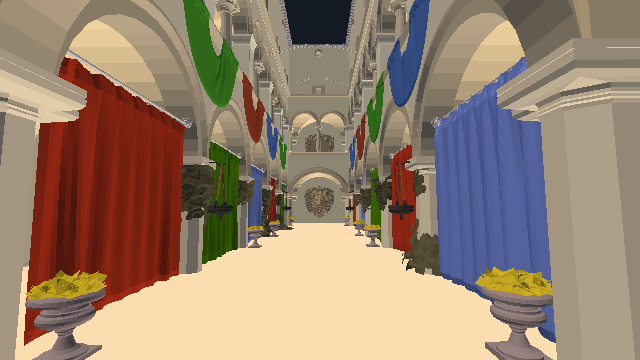
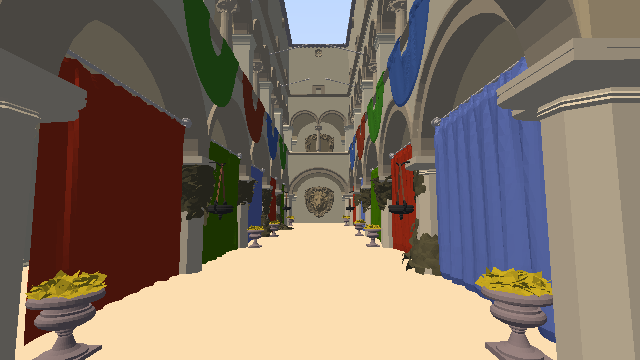
4.4x faster Sponza: per-cell 16-wide SoA triangle blocks; raster mode matches RT shading
Profiled traversal: 638 tri tests/ray dominated cost, all scalar. Cells now
store triangles in padded SoA blocks tested by one branchless SIMD
Moller-Trumbore iteration: 1.0 -> 4.4 Mrays/s native at 1080p (with
shadows), 0.5 -> 1.7 in WASM. Makefile header deps fixed (mesh.h edits
did not rebuild). Raster mode now uses identical shading + sky as the
raytraced mode; the only remaining difference is shadow rays.

diff --git a/web/webgpu.js b/web/webgpu.js
@@ -279,6 +279,13 @@ export class GpuMesh {
       fragment: { module, entryPoint: 'fs_blit', targets: [{ format: engine.format }] },
       primitive: { topology: 'triangle-list' },
     });
+    e.skyPipe = dev.createRenderPipeline({
+      layout: 'auto',
+      vertex: { module, entryPoint: 'vs_blit' },
+      fragment: { module, entryPoint: 'fs_sky', targets: [{ format: engine.format }] },
+      primitive: { topology: 'triangle-list' },
+      depthStencil: { format: 'depth24plus', depthWriteEnabled: false, depthCompare: 'always' },
+    });
     e.ubuf = dev.createBuffer({ size: 256, usage: GPUBufferUsage.UNIFORM | GPUBufferUsage.COPY_DST });
     e.sinkBuf = dev.createBuffer({ size: 64 * 4, usage: GPUBufferUsage.STORAGE | GPUBufferUsage.COPY_DST });
     const mkbuf = (arr) => {
@@ -311,6 +318,10 @@ export class GpuMesh {
         { binding: 1, resource: { buffer: e.vbuf } },
         { binding: 2, resource: { buffer: e.tbuf } },
       ],
+    });
+    e.skyBG = dev.createBindGroup({
+      layout: e.skyPipe.getBindGroupLayout(0),
+      entries: [{ binding: 0, resource: { buffer: e.ubuf } }],
     });
     return e;
   }
@@ -435,6 +446,9 @@ export class GpuMesh {
         depthStoreOp: 'discard',
       },
     });
+    rp.setPipeline(this.skyPipe);
+    rp.setBindGroup(0, this.skyBG);
+    rp.draw(3);
     rp.setPipeline(this.rasterPipe);
     rp.setBindGroup(0, this.rasterBG);
     rp.draw(this.ntris * 3);

diff --git a/src/mesh.h b/src/mesh.h
@@ -32,7 +32,15 @@ struct Mesh {
   int gx = 0, gy = 0, gz = 0;
   Vec3 inv_cell, cell;
   std::vector<uint32_t> cell_start;  // gx*gy*gz + 1 CSR offsets
-  std::vector<uint32_t> items;       // triangle ids
+  std::vector<uint32_t> items;       // triangle ids (also exported to WebGPU)
+  // Each cell's triangles padded to 16-wide SoA blocks (9 segments of 16
+  // floats: p0x p0y p0z e1x e1y e1z e2x e2y e2z) so one AVX-512 iteration
+  // tests 16 triangles. Padding slots have e1=e2=0 => det=0 => never hit.
+  static constexpr int BLK = 16;
+  static constexpr int BLK_FLOATS = 9 * BLK;
+  std::vector<float> blk;
+  std::vector<uint32_t> blk_id;        // tri id per block slot
+  std::vector<uint32_t> cell_blk;      // per cell: first block, CSR (+1)
 
   bool valid() const { return ntris > 0; }
 };
@@ -88,6 +96,35 @@ inline void mesh_build_grid(Mesh& m, float density = 5.0f) {
       for (int y = lo[1]; y <= hi[1]; y++)
         for (int x = lo[0]; x <= hi[0]; x++)
           m.items[cursor[(size_t(z) * m.gy + y) * m.gx + x]++] = t;
+  }
+  // Build the padded SoA test blocks per cell.
+  m.cell_blk.assign(ncells + 1, 0);
+  for (size_t c = 0; c < ncells; c++) {
+    uint32_t cnt = m.cell_start[c + 1] - m.cell_start[c];
+    m.cell_blk[c + 1] = m.cell_blk[c] + (cnt + Mesh::BLK - 1) / Mesh::BLK;
+  }
+  size_t nblocks = m.cell_blk[ncells];
+  m.blk.assign(nblocks * Mesh::BLK_FLOATS, 0.0f);
+  m.blk_id.assign(nblocks * Mesh::BLK, 0);
+  for (size_t c = 0; c < ncells; c++) {
+    uint32_t s = m.cell_start[c], e = m.cell_start[c + 1];
+    for (uint32_t k = s; k < e; k++) {
+      uint32_t t = m.items[k];
+      size_t slot = k - s;
+      size_t b = m.cell_blk[c] + slot / Mesh::BLK;
+      int lane = int(slot % Mesh::BLK);
+      float* q = &m.blk[b * Mesh::BLK_FLOATS];
+      q[0 * Mesh::BLK + lane] = m.p0x[t];
+      q[1 * Mesh::BLK + lane] = m.p0y[t];
+      q[2 * Mesh::BLK + lane] = m.p0z[t];
+      q[3 * Mesh::BLK + lane] = m.e1x[t];
+      q[4 * Mesh::BLK + lane] = m.e1y[t];
+      q[5 * Mesh::BLK + lane] = m.e1z[t];
+      q[6 * Mesh::BLK + lane] = m.e2x[t];
+      q[7 * Mesh::BLK + lane] = m.e2y[t];
+      q[8 * Mesh::BLK + lane] = m.e2z[t];
+      m.blk_id[b * Mesh::BLK + lane] = t;
+    }
   }
 }
 
@@ -153,25 +190,38 @@ inline bool mesh_load(Mesh& m, const uint8_t* data, size_t len) {
   return true;
 }
 
-// Moller-Trumbore, no backface culling.
-inline bool tri_hit(const Mesh& m, uint32_t t, Vec3 ro, Vec3 rd, float tmin, float tmax,
-                    float& tout) {
-  Vec3 e1{m.e1x[t], m.e1y[t], m.e1z[t]};
-  Vec3 e2{m.e2x[t], m.e2y[t], m.e2z[t]};
-  Vec3 pv = cross(rd, e2);
-  float det = dot(e1, pv);
-  if (det > -1e-9f && det < 1e-9f) return false;
-  float inv = 1.0f / det;
-  Vec3 tv = ro - Vec3{m.p0x[t], m.p0y[t], m.p0z[t]};
-  float u = dot(tv, pv) * inv;
-  if (u < 0.0f || u > 1.0f) return false;
-  Vec3 qv = cross(tv, e1);
-  float v = dot(rd, qv) * inv;
-  if (v < 0.0f || u + v > 1.0f) return false;
-  float tt = dot(e2, qv) * inv;
-  if (tt <= tmin || tt >= tmax) return false;
-  tout = tt;
-  return true;
+// Moller-Trumbore over one 16-triangle SoA block, branchless across lanes.
+// Conditions are written positively so NaN lanes (degenerate padding) fail.
+inline void tri_block_hit(const float* __restrict b, const uint32_t* __restrict ids, Vec3 ro,
+                          Vec3 rd, float tmin, float& best, int& bestid) {
+  constexpr int K = Mesh::BLK;
+  float ts[K];
+#pragma omp simd
+  for (int i = 0; i < K; i++) {
+    float e1x = b[3 * K + i], e1y = b[4 * K + i], e1z = b[5 * K + i];
+    float e2x = b[6 * K + i], e2y = b[7 * K + i], e2z = b[8 * K + i];
+    float pvx = rd.y * e2z - rd.z * e2y;
+    float pvy = rd.z * e2x - rd.x * e2z;
+    float pvz = rd.x * e2y - rd.y * e2x;
+    float det = e1x * pvx + e1y * pvy + e1z * pvz;
+    float inv = 1.0f / det;
+    float tvx = ro.x - b[0 * K + i], tvy = ro.y - b[1 * K + i], tvz = ro.z - b[2 * K + i];
+    float u = (tvx * pvx + tvy * pvy + tvz * pvz) * inv;
+    float qvx = tvy * e1z - tvz * e1y;
+    float qvy = tvz * e1x - tvx * e1z;
+    float qvz = tvx * e1y - tvy * e1x;
+    float v = (rd.x * qvx + rd.y * qvy + rd.z * qvz) * inv;
+    float tt = (e2x * qvx + e2y * qvy + e2z * qvz) * inv;
+    float ad = det < 0.0f ? -det : det;
+    bool ok = (ad > 1e-12f) & (u >= 0.0f) & (v >= 0.0f) & (u + v <= 1.0f) & (tt > tmin);
+    ts[i] = ok ? tt : 1e30f;
+  }
+  for (int i = 0; i < K; i++) {
+    if (ts[i] < best) {
+      best = ts[i];
+      bestid = int(ids[i]);
+    }
+  }
 }
 
 // Grid DDA nearest-hit. anyhit: return on the first accepted intersection.
@@ -227,18 +277,14 @@ inline bool mesh_intersect(const Mesh& m, Vec3 ro, Vec3 rd, float tmin, float tm
   for (;;) {
     float cell_exit = tmx < tmy ? (tmx < tmz ? tmx : tmz) : (tmy < tmz ? tmy : tmz);
     size_t ci = (size_t(cz) * m.gy + cy) * m.gx + cx;
-    uint32_t s = m.cell_start[ci], e = m.cell_start[ci + 1];
-    for (uint32_t k = s; k < e; k++) {
-      uint32_t t = m.items[k];
-      float tt;
-      if (tri_hit(m, t, ro, rd, tmin, best, tt)) {
-        best = tt;
-        besttri = int(t);
-        if (anyhit) {
-          out.t = best;
-          out.tri = besttri;
-          return true;
-        }
+    uint32_t bs = m.cell_blk[ci], be = m.cell_blk[ci + 1];
+    for (uint32_t b = bs; b < be; b++) {
+      tri_block_hit(&m.blk[size_t(b) * Mesh::BLK_FLOATS], &m.blk_id[size_t(b) * Mesh::BLK],
+                    ro, rd, tmin, best, besttri);
+      if (anyhit && besttri >= 0) {
+        out.t = best;
+        out.tri = besttri;
+        return true;
       }
     }
     if (besttri >= 0 && best <= cell_exit + 1e-4f) break;

diff --git a/README.md b/README.md
@@ -30,7 +30,7 @@ acceleration structure of any kind — at 11.4 fps / 23.6 Mrays/s on a 4-core
 | raytraced (WGSL compute, grid DDA) | rasterized (same mesh, classic pipeline) |
 |---|---|
 | ![Sponza raytraced](docs/img/sponza_rt.png) | ![Sponza rasterized](docs/img/sponza_raster.png) |
-| sun + shadows + sky through the roof | no shadows, no sky — the 60-year-old cheat |
+| Identical camera and shading — primary visibility matches pixel-for-pixel. The one thing the rasterizer can't do is the shadow ray, so flipping modes makes shadows appear and disappear. |
 
 ## Measured numbers (this dev box: 4-core Intel Xeon 2.8 GHz, AVX-512)
 
@@ -43,18 +43,19 @@ Native, primary visibility rays at 1920×1080, brute force unless noted
 | s8 | 8 spheres | **819** | 6553 | 395 |
 | s64 | 64 spheres | **161** | 10278 | 77 |
 | s256 | 256 spheres | 43 | 11113 | 21 |
-| rtiow | 479 spheres | 24 | 11323 | 11.4 |
-| rtiow (full shading, shadows + reflections) | 479 spheres | 20 | 9717 | 4.8 |
-| sponza | 262,267 triangles (grid DDA) | 0.9 | — | 0.5 |
+| rtiow | 479 spheres | 24 | 11602 | 11.7 |
+| rtiow (full shading, shadows + reflections) | 479 spheres | 20 | 9608 | 4.7 |
+| sponza | 262,267 triangles (grid DDA) | 4.1 | — | 2.0 |
+| sponza (full shading + shadows) | 262,267 triangles | 4.4 | — | 1.3 |
 
 Same core compiled to WebAssembly, running in V8 (4 threads, SIMD128):
 
 | scene | Mrays/s in the browser engine |
 |-------|------------------------------|
-| 1 sphere | **640** |
-| 64 spheres | 43 |
-| rtiow (479) | 6.0 |
-| sponza (262k tris) | 0.5 |
+| 1 sphere | **713** |
+| 64 spheres | 42 |
+| rtiow (479) | 5.7 |
+| sponza (262k tris) | 1.7 |
 
 On the reference machine for this project — a **Ryzen 7 7800X3D** (8 Zen 4
 cores, full AVX-512, ~5 GHz) — scale the native numbers by roughly 2.5–3.5×
@@ -70,7 +71,7 @@ Published figures for real ray-tracing hardware, against the numbers above
 
 | hardware ray tracer | year | their figure | ours (4-core VM, software, no BVH) |
 |---|---|---|---|
-| [Saarland RPU](https://dl.acm.org/doi/10.1145/1073204.1073211) (the original ray-tracing chip, FPGA) | 2005 | ≈4.1 Mrays/s measured, primary rays | 2226 Mrays/s (1 sphere) → **540× faster**; even the 479-sphere scene is 5.8× faster |
+| [Saarland RPU](https://dl.acm.org/doi/10.1145/1073204.1073211) (the original ray-tracing chip, FPGA) | 2005 | ≈4.1 Mrays/s measured, primary rays (scenes up to ~53k tris) | 2255 Mrays/s (1 sphere) → **540× faster**; the 479-sphere scene is 5.9× faster; even 262k-triangle Sponza matches it at 4.1 Mrays/s on a 5× bigger scene |
 | [Caustic R2100](https://www.design-reuse.com/news/31295/imgtec-r2500-r2100.html) PCIe RT accelerator ($795) | 2013 | 50 M incoherent rays/s claimed | 161 Mrays/s on 64 spheres → **3.2× faster** |
 | [Caustic R2500](https://www.design-reuse.com/news/31295/imgtec-r2500-r2100.html) PCIe RT accelerator ($1495) | 2013 | 100 M incoherent rays/s claimed | 161 Mrays/s on 64 spheres → **1.6× faster**; 819 on 8 spheres → 8.2× |
 | [PowerVR Wizard GR6500](https://www.theregister.com/2014/03/18/imagination_technologies_announces_powervr_gr6500/) RT GPU | 2014 | 300 Mrays/s claimed peak @600 MHz | 819 Mrays/s (8 spheres) → **2.7× faster**; 2226 on 1 sphere → 7.4× |
@@ -136,8 +137,10 @@ adaptively, so slow adapters never trip a device watchdog.
   at 1080p (~11.3 **billion** sphere tests/s sustained).
 - **All cores, zero contention.** An atomic row counter feeds threads;
   the calling thread works too. Same code natively and in WASM pthreads.
-- **Sponza** = Möller–Trumbore through a flat grid (3D-DDA), precomputed
-  edge vectors, CSR cell lists. Built in milliseconds at load.
+- **Sponza** = Möller–Trumbore through a flat grid (3D-DDA). Each cell's
+  triangles are stored as padded 16-wide SoA blocks, so one AVX-512
+  iteration tests 16 triangles — that one change took Sponza from 1.0 to
+  4.4 Mrays/s. Built in milliseconds at load.
 - **WGSL compute** mirrors both: one thread per pixel, same math, no RT API.
 
 ## Repo tour

diff --git a/CLAUDE.md b/CLAUDE.md
@@ -21,7 +21,7 @@ emsdk lives at `/opt/emsdk` in the dev container: `source /opt/emsdk/emsdk_env.s
 ## Layout
 
 - `src/trace.h` — the hot loop: brute-force SIMD sphere packets (16 lanes), 2-phase discriminant/early-skip; mesh hits encoded as `MESH_BIT | tri`.
-- `src/mesh.h` — triangle mesh, Möller–Trumbore, uniform grid build + 3D-DDA (Amanatides & Woo). NOT a BVH; keep it that way.
+- `src/mesh.h` — triangle mesh, uniform grid build + 3D-DDA (Amanatides & Woo), per-cell triangles in padded 16-wide SoA blocks tested by a branchless SIMD Möller–Trumbore (`tri_block_hit`). NOT a BVH; keep it that way.
 - `src/render.h` — camera, masked Whitted shading (sky/sun/shadows/mirror), `parallel_rows` (std::thread + atomic counter; calling thread participates — same code in WASM).
 - `src/scene.h` — sphere scenes (`one s8 s64 s256 rtiow`) + `sponza` (mesh).
 - `src/wasm.cpp` — C ABI exports for the browser; exports must be mirrored in `Makefile` `WASM_EXPORTS`.
